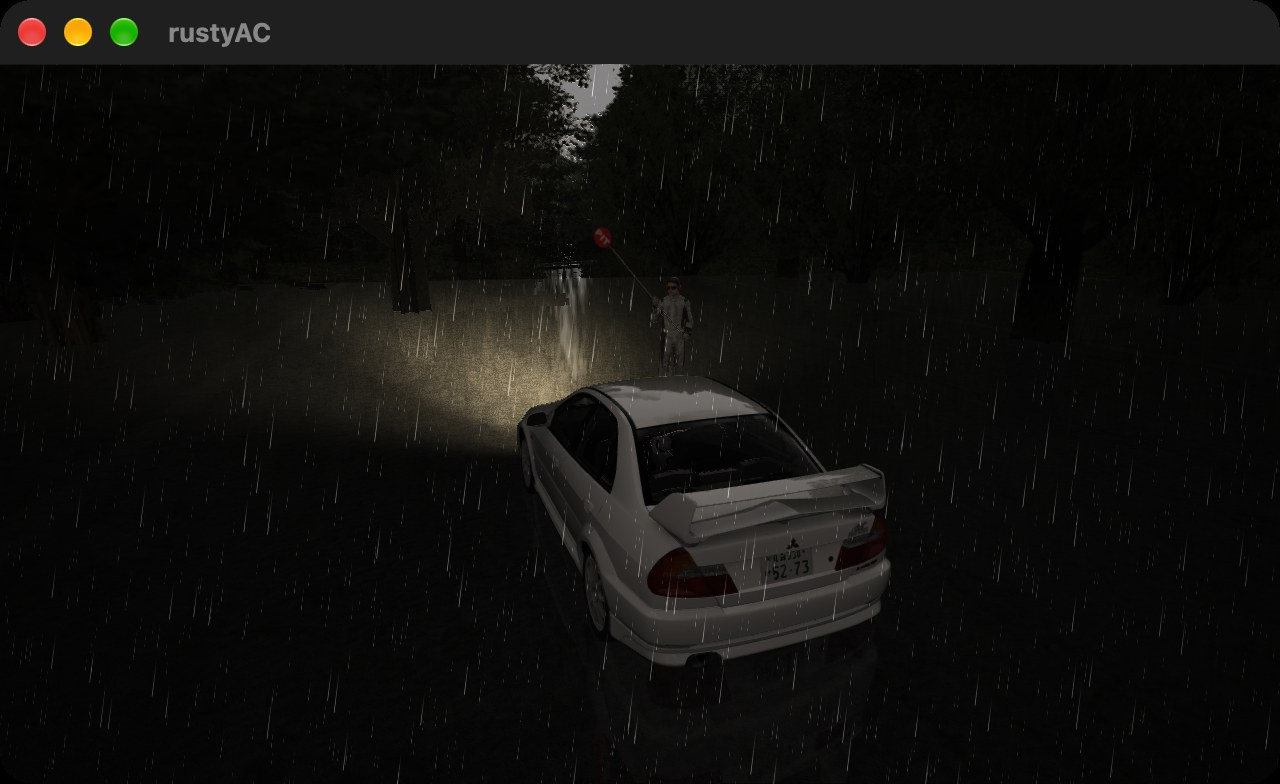
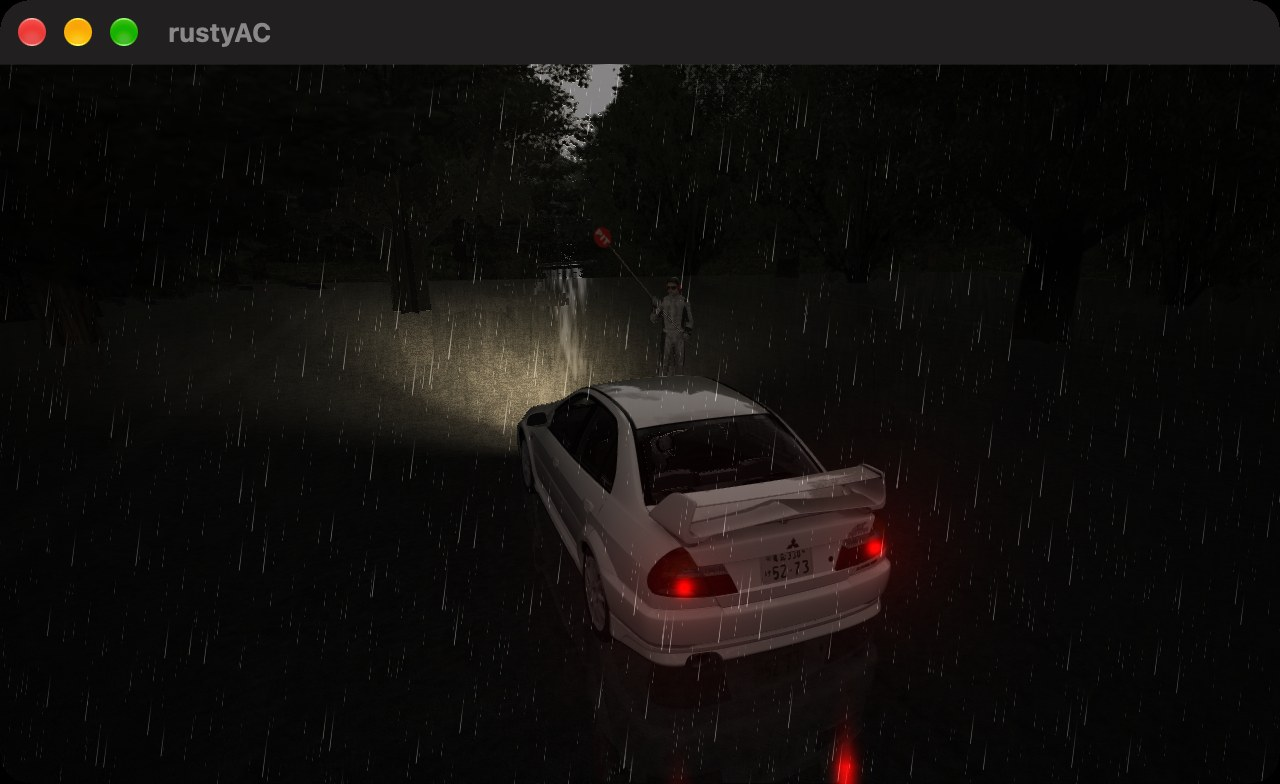
render: lamp lens glow fed to the present pass and mirrored in the wet road; night shots redone
Claude-Session: https://claude.ai/code/session_018KH1JE4PQnkHULvykV6PeW

diff --git a/crates/rustyac-game/src/render/ac.rs b/crates/rustyac-game/src/render/ac.rs
@@ -1473,7 +1473,22 @@ FILTER=default
             put(&mut out, 10, [b[3][0], b[3][1], b[3][2]], 0.0);
             // the lenses' glow: headlights on the nose, taillights at the back (brighter on the brake), seen from the side they face
             let to_cam = [0, 1, 2].map(|i| m[3][i] - b[3][i]);
-            let _along = to_cam[0] * b[2][0] + to_cam[1] * b[2][1] + to_cam[2] * b[2][2];
+            let along = to_cam[0] * b[2][0] + to_cam[1] * b[2][1] + to_cam[2] * b[2][2];
+            // (a lens shows from the side it faces: the headlights to a camera ahead of the car's middle, the tail lamps to one behind)
+            let seen_front = (along / 3.0 + 0.3).clamp(0.0, 1.0);
+            let seen_rear = (-along / 3.0 + 0.3).clamp(0.0, 1.0);
+            if let Some(f) = model.front {
+                put(&mut out, 11, world(f[0]), fade * seen_front * 0.5);
+                put(&mut out, 12, world(f[1]), fade * seen_front * 0.5);
+                put(&mut out, 16, model.front_color, 0.0);
+                put(&mut out, 17, model.front_color, 0.0);
+            }
+            if let Some(r) = model.rear {
+                put(&mut out, 13, world(r[0]), fade * seen_rear * 0.5);
+                put(&mut out, 14, world(r[1]), fade * seen_rear * 0.5);
+                put(&mut out, 18, model.rear_color_off, 0.0);
+                put(&mut out, 19, model.rear_color_off, 0.0);
+            }
             // the car cut-out of the pools: the body's extent from the model, a low block over the bonnet
             let (lo, hi) = (model.min, model.max);
             if lo[0] < hi[0] {

diff --git a/crates/rustyac-render/src/kgl_wgpu.rs b/crates/rustyac-render/src/kgl_wgpu.rs
@@ -1969,7 +1969,7 @@ if (gain.a[3].w > 0.0 && !have_depth) {{
                     // longer downwards from the mirror point, thin sideways
                     // (a pixel far to the side of the streak takes nothing: no exponentials spent on it)
                     if (abs(dd.x) < r * 3.5 && abs(dd.y) < r * 30.0) {{
-                        let streak = exp(-(dd.x * dd.x) / (r * r * 0.5)) * exp(-abs(dd.y) / (r * 9.0)) * 1.3;
+                        let streak = exp(-(dd.x * dd.x) / (r * r * 0.5)) * exp(-select(dd.y / (r * 1.2), -dd.y / (r * 7.0), dd.y < 0.0)) * 1.3;
                         c = vec4<f32>(c.rgb + gain.a[i + 5].xyz * streak * g.w * wet * dark * 1.4, c.a);
                     }}
                 }}

diff --git a/docs/graphics/README.md b/docs/graphics/README.md
@@ -118,7 +118,7 @@ headlights at 45-52 fps while another job loaded the Mac. AC's six-face live cub
 
 The glare is there in every look; it is gentle and strongest where a few very bright spots stand in a dark picture (night in rain: 1.7 levels in the ring,
 up to 148 at the lamps). The wet road at night in front of the car, with poles, trees and the car mirrored: `checks/wet_road_night_front.png`;
-the lamps' own lens glow is not mirrored (the lenses barely glow in the frame, so the road shows the light pool and the poles, not the lamps).
+
 
 ## Bloom on every track and car (day, and night in rain with lamps; GLARE on vs off; mean change in the 40 px ring around pixels above 200 / largest change)
 
@@ -138,3 +138,10 @@ the lamps' own lens glow is not mirrored (the lenses barely glow in the frame, s
 | mount_akina_2017 | ks_nissan_skyline_r34 | 0.83 / 220 | 0.29 / 134 |
 
 The glare shows in all 24 pairs (largest change 27-220 levels of 255). It is gentle on average and strongest at night, where a few bright lamps stand in a dark picture.
+
+## Lamps and their mirror image (the last open item of condition 1)
+
+The lens glow of `lights.ini` lamps (headlights seen from ahead, tail lamps from behind) had never been fed to the present pass. It is now, and each lens is
+mirrored in the wet road as a streak running towards the camera: `checks/lamps_glow_and_wet_road_mirror.jpg` (left: from ahead, lamps glow and their
+streaks lie on the wet tarmac; right: from behind and the side, only the beam on the road). The 24 night shots (`_night_rain`, `_night_dry`) were taken again with it.
+Frame rate with it, nevadadrift at night in rain with headlights, 1920x1080: 59.6 and 58.9 fps (the Mac was quiet this time).
